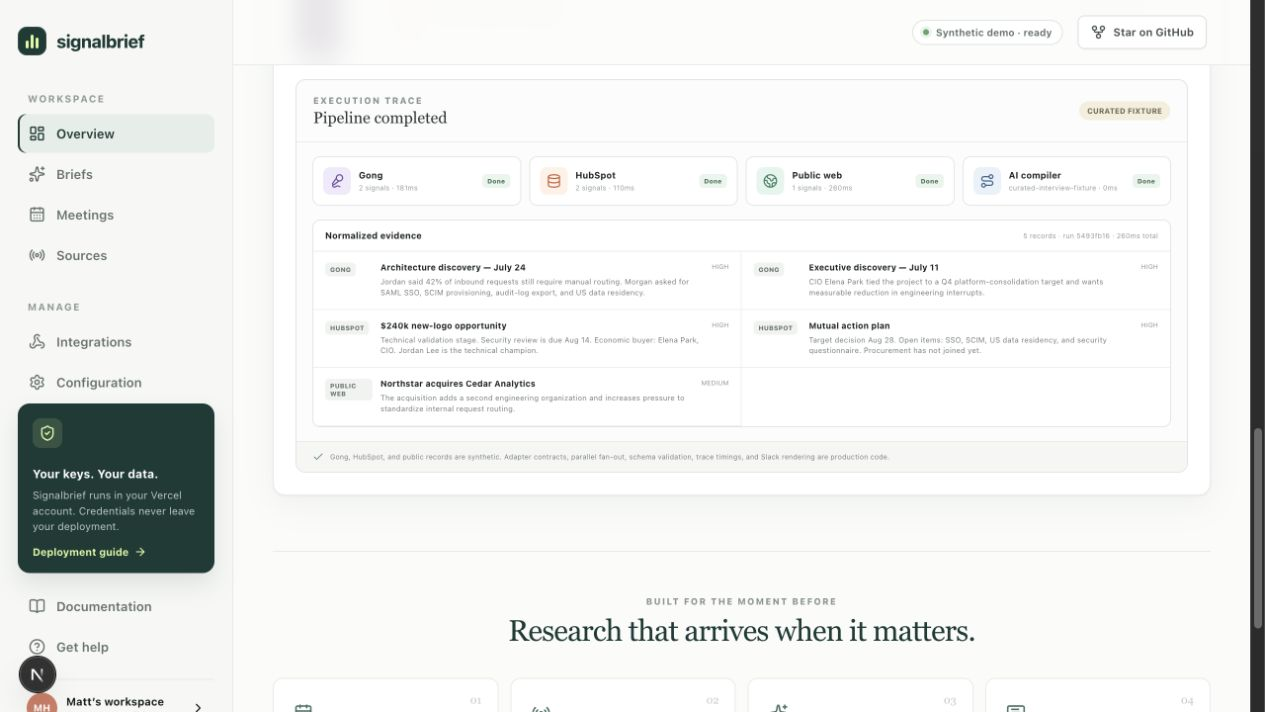
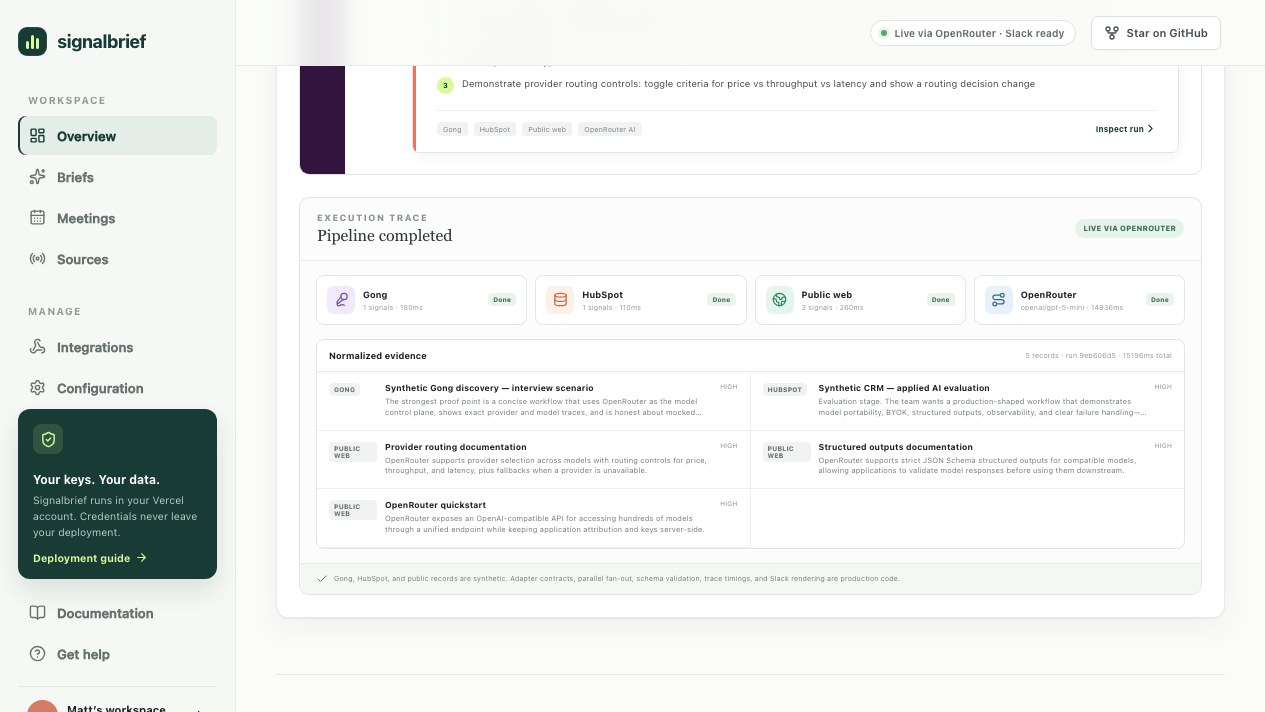
Refresh OpenRouter demo proof

diff --git a/e2e/demo.spec.ts b/e2e/demo.spec.ts
@@ -5,6 +5,8 @@ test("runs a transparent production-shaped brief workflow", async ({ page }) => 
 
   await expect(page).toHaveTitle("Signalbrief — Walk into every call ready");
   await expect(page.getByRole("heading", { name: "Run the brief pipeline" })).toBeVisible();
+  await expect(page.getByRole("button", { name: "OpenRouter Applied AI" })).toBeVisible();
+  await expect(page.getByRole("heading", { name: "OpenRouter" })).toBeVisible();
   await expect(page.getByRole("link", { name: "Star on GitHub" })).toHaveAttribute(
     "href",
     "https://github.com/mherzog4/signalbrief",
